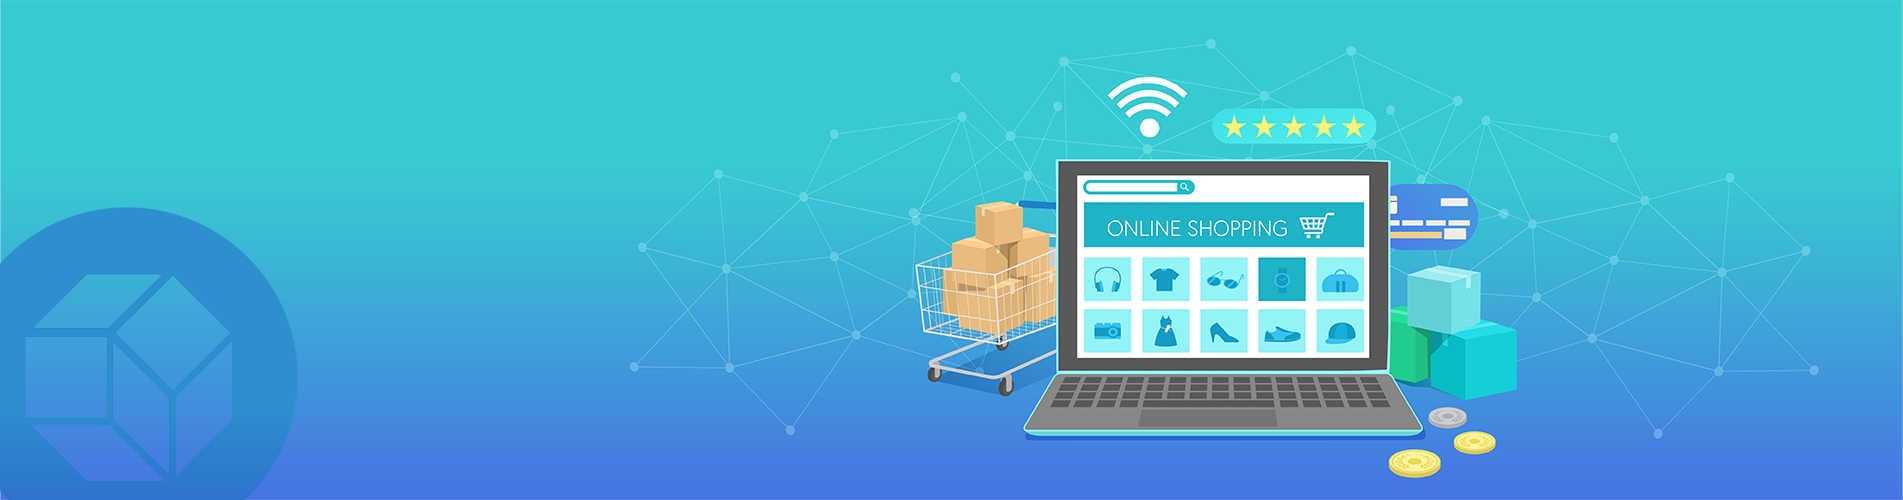
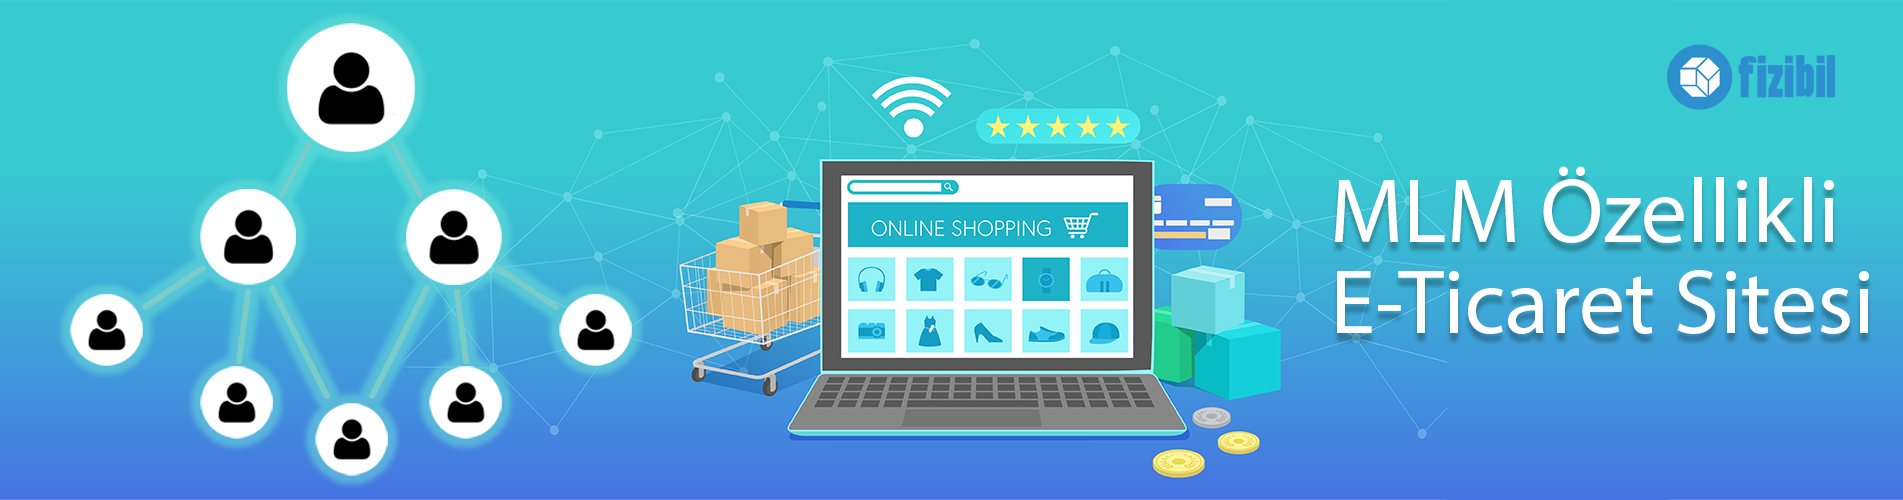
update: photos

diff --git a/collections/headerData.js b/collections/headerData.js
@@ -144,21 +144,21 @@ export const childMenu = [
     catChild: 0,
   },
   {
-    id: 34,
+    id: 35,
     title: "Web Programlama",
     url: "/web-uygulama",
     catName: "Çözümler",
     catChild: 0,
   },
   {
-    id: 35,
+    id: 36,
     title: "Mobil Programlama",
     url: "/mobil-uygulama",
     catName: "Çözümler",
     catChild: 0,
   },
   {
-    id: 36,
+    id: 37,
     title: "Masaüstü Programlama",
     url: "/masaustu-uygulama",
     catName: "Çözümler",
@@ -182,109 +182,109 @@ export const childMenu = [
 
 export const subChildMenu = [
   {
-    id: 11,
+    id: 111,
     title: "Fizibil İskele Analiz",
     url: "/iskele",
     catName: "Masaüstü Uygulama",
   },
   {
-    id: 12,
+    id: 112,
     title: "Fizibil Yığma Analiz",
     url: "/yigma",
     catName: "Masaüstü Uygulama",
   },
   {
-    id: 13,
+    id: 113,
     title: "Magenta Ayak Analiz",
     url: "/ayak-analiz",
     catName: "Masaüstü Uygulama",
   },
   {
-    id: 21,
+    id: 211,
     title: "Doğalgaz Sayacı Okuma",
     url: "/dogalgaz-sayac",
     catName: "Mobil Uygulama",
   },
   {
-    id: 22,
+    id: 212,
     title: "Elektrik Sayacı Okuma",
     url: "/elektrik-sayac",
     catName: "Mobil Uygulama",
   },
   {
-    id: 23,
+    id: 213,
     title: "Statik Proje Bedeli Hesaplama",
     url: "/proje-bedel",
     catName: "Mobil Uygulama",
   },
   {
-    id: 31,
+    id: 311,
     title: "Fizibil Yığma Analiz",
     url: "/yigma",
     catName: "İnşaat Mühendisliği",
   },
   {
-    id: 32,
+    id: 312,
     title: "Kentsel Dönüşüm Bilgi Sistemi",
     url: "/kentsel-donusum",
     catName: "İnşaat Mühendisliği",
   },
   {
-    id: 33,
+    id: 313,
     title: "Fizibil İskele Analiz",
     url: "/iskele",
     catName: "İnşaat Mühendisliği",
   },
   {
-    id: 34,
+    id: 314,
     title: "Statik Proje Bedeli Hesaplama",
     url: "/proje-bedel",
     catName: "İnşaat Mühendisliği",
   },
   {
-    id: 41,
+    id: 411,
     title: "ERP Yazılım ve Danışmanlık",
     url: "/erp",
     catName: "Enerji",
   },
   {
-    id: 42,
+    id: 412,
     title: "Doğalgaz Sayacı Okuma",
     url: "/dogalgaz-sayac",
     catName: "Enerji",
   },
   {
-    id: 43,
+    id: 413,
     title: "Elektrik Sayacı Okuma",
     url: "/elektrik-sayac",
     catName: "Enerji",
   },
   {
-    id: 51,
+    id: 511,
     title: "ERP Yazılım ve Danışmanlık",
     url: "/erp",
     catName: "Web Uygulama",
   },
   {
-    id: 52,
+    id: 512,
     title: "MLM Özellikli E-Ticaret Portalı",
     url: "/e-ticaret",
     catName: "Web Uygulama",
   },
   {
-    id: 53,
+    id: 513,
     title: "Kentsel Dönüşüm Bilgi Sistemi",
     url: "/kentsel-donusum",
     catName: "Web Uygulama",
   },
   {
-    id: 61,
+    id: 611,
     title: "Magenta Ayak Analiz",
     url: "/ayak-analiz",
     catName: "Medical",
   },
   {
-    id: 71,
+    id: 711,
     title: "MLM Özellikli E-Ticaret Portalı",
     url: "/e-ticaret",
     catName: "E-Ticaret",

diff --git a/components/GoruntuIsleme/goruntuIsleme.js b/components/GoruntuIsleme/goruntuIsleme.js
@@ -5,8 +5,15 @@ import Image from "next/image";
 
 const goruntuIsleme = () => {
   return (
-    <div className="w-full pt-32 mb-10 listimage">
-      <div className="lg:container mx-auto">
+    <div className="w-full pt-[88px] listimage">
+      <div className="w-full">
+        <img
+          src="/assets/Images/goruntu-isleme-banner.png"
+          className="w-full lg:h-auto h-[15vh]"
+          alt="Sayaç Okuma"
+        />
+      </div>
+      <div className="lg:container lg:mx-auto mx-5 mt-5">
         <h3 className="text-center font-bold italic">
           Yapay zeka alanında yaptığımız çeşitli bilimsel araştırmalarımızı
           sektörün genelinin ihtiyaçlarına yönelik olarak sonuç ürünlere

diff --git a/components/Yigma/Yigma.js b/components/Yigma/Yigma.js
@@ -9,7 +9,7 @@ const Yigma = () => {
       <div className="w-full">
         <img
           src="/assets/Images/yigma-banner.png"
-          className="w-full lg:h-[50vh] h-[12vh] object-cover"
+          className="w-full lg:h-auto h-[15vh]"
         />
         <div className=" text-white lg:text-7xl absolute lg:top-[35%] top-[16%] lg:right-[25%] right-[25%]">
           <h2 className="lg:pb-4">Fizibil Yığma</h2>

diff --git a/components/ProjeBedel/projeBedel.js b/components/ProjeBedel/projeBedel.js
@@ -7,7 +7,8 @@ const projeBedel = () => {
       <div className="w-full">
         <img
           src="/assets/Images/pagebanner.jpg"
-          className="w-full h-[50vh] object-cover"
+          className="w-full lg:h-auto h-[15vh]"
+          alt="Staik Proje Bedel Banner"
         />
       </div>
       <div className="w-full lg:container lg:mx-auto mx-5 my-10">

diff --git a/components/Iskele/Iskele.js b/components/Iskele/Iskele.js
@@ -9,7 +9,7 @@ const Iskele = () => {
       <div className="w-full">
         <img
           src="/assets/Images/iskele-banner.png"
-          className="w-full lg:h-[50vh] h-[12vh] object-cover"
+          className="w-full lg:h-auto h-[15vh]"
         />
       </div>
       <div className="w-full lg:container lg:mx-auto lg:my-10 my-3">

diff --git a/components/Kentsel/KentselDonusum.js b/components/Kentsel/KentselDonusum.js
@@ -7,7 +7,7 @@ const Kentsel = () => {
       <div className="w-full">
         <img
           src="/assets/Images/kentseldonusum-banner.png"
-          className="w-full lg:h-[50vh] h-[12vh] object-cover"
+          className="w-full lg:h-auto h-[15vh]"
           alt="Kentsel Dönüşüm Bilgi Sistemi"
         />
       </div>

diff --git a/components/Medical/Medical.js b/components/Medical/Medical.js
@@ -6,7 +6,7 @@ const Medical = () => {
       <div className="w-full">
         <img
           src="/assets/Images/medical-banner.png"
-          className="w-full h-[50vh] object-cover"
+          className="w-full lg:h-auto h-[15vh]"
         />
       </div>
       <div className="w-full lg:container lg:mx-auto mx-5 my-10">

diff --git a/components/Masaustu/Masaustu.js b/components/Masaustu/Masaustu.js
@@ -9,7 +9,7 @@ const Masaustu = () => {
       <div className="w-full">
         <img
           src="/assets/Images/Masaüstü-banner.png"
-          className="w-full lg:h-[50vh] h-[12vh] object-cover"
+          className="w-full lg:h-auto h-[15vh]"
           alt="Masaüstü Programlama"
         />
       </div>

diff --git a/components/Web/Web.js b/components/Web/Web.js
@@ -9,7 +9,7 @@ const Web = () => {
       <div className="w-full">
         <img
           src="/assets/Images/web-program-banner.png"
-          className="w-full lg:h-[50vh] h-[12vh] object-cover"
+          className="w-full lg:h-auto h-[15vh]"
           alt="Web Programlama"
         />
       </div>

diff --git a/components/Mobil/Mobil.js b/components/Mobil/Mobil.js
@@ -9,7 +9,7 @@ const Mobil = () => {
       <div className="w-full">
         <img
           src="/assets/Images/mobil-banner.png"
-          className="w-full lg:h-[50vh] h-[12vh] object-cover"
+          className="w-full lg:h-auto h-[15vh]"
           alt="Mobil Programlama"
         />
       </div>

diff --git a/collections/workData.js b/collections/workData.js
@@ -25,7 +25,7 @@ export const workData = [
   },
   {
     id: 4,
-    url: "/assets/Images/e-tic.png",
+    url: "/assets/Images/e-tic2.png",
     alt: "MLM Özellikli E-Ticaret Portalı",
     title1: "MLM ÖZELLİKLİ",
     title2: "E-TİCARET PORTALI",
